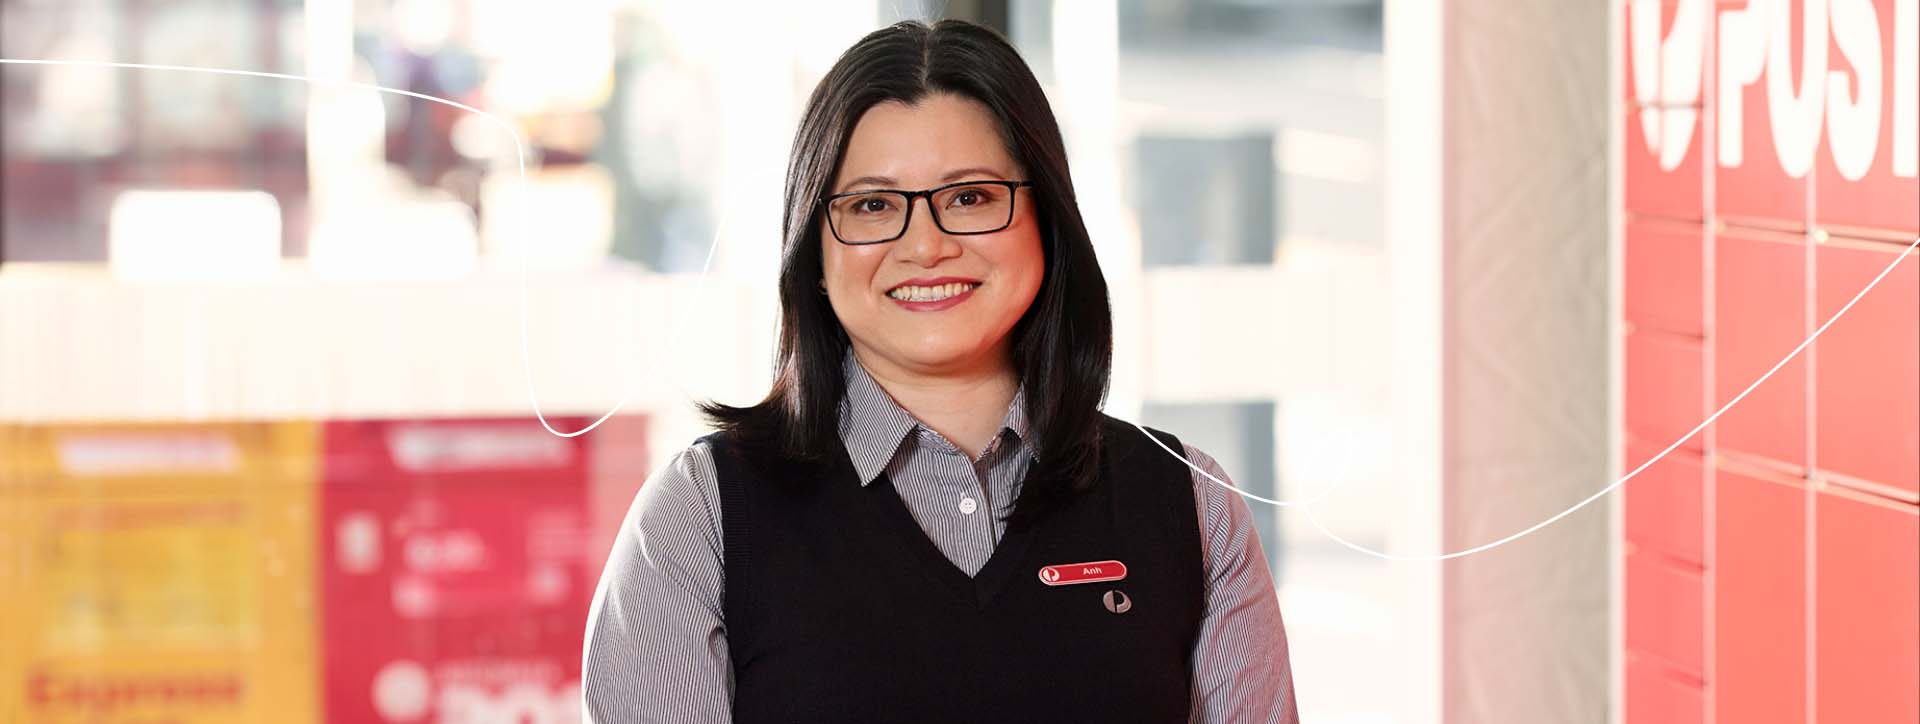
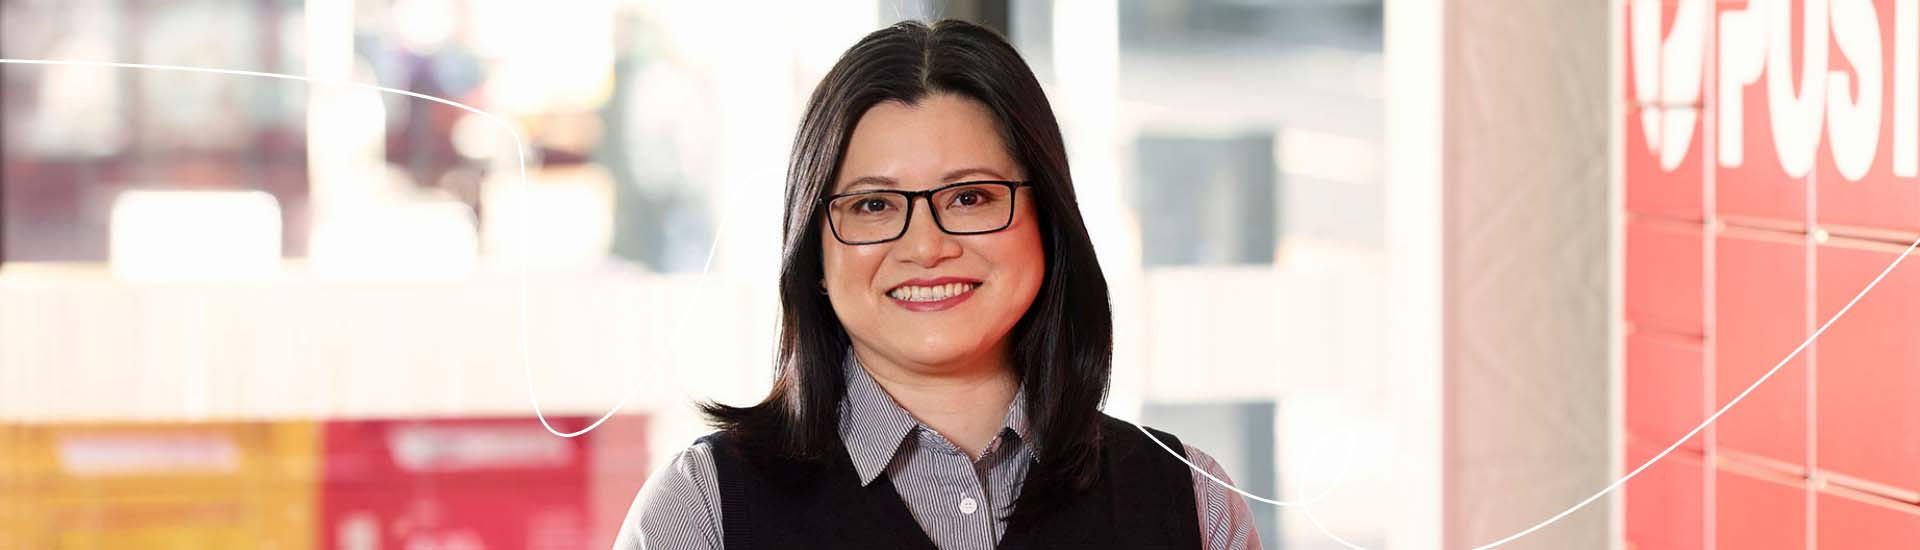
nc

diff --git a/css/course.css b/css/course.css
@@ -119,9 +119,9 @@
 */
 
 
-#page-m1_t1_p1 #banner { background: url(../content/images/t1_banner_sm.jpg); background-size: cover; }
+#page-m1_t1_p1 #banner { background: url(../content/images/t1_banner_sm.jpg); background-size: cover; background-position: 29%; }
 #page-m1_t1_p1 #banner-message { bottom: 1.5625%; left: 1.5625%; }
-@media (min-width: 768px) {
+@media (min-width: 992px) {
     #page-m1_t1_p1 #banner-message { bottom: auto; left: auto; top: 4%; right: 20px; }
 }
 

diff --git a/content/pages/m1/t1/p1.html b/content/pages/m1/t1/p1.html
@@ -1,4 +1,4 @@
-<div id="banner">
+<div id="banner" class="break-lg">
   <img src="content/images/t1_banner.jpg" alt="" />
   <div>
     <div class="container">
